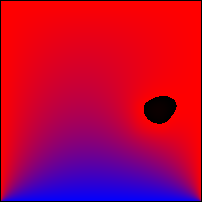
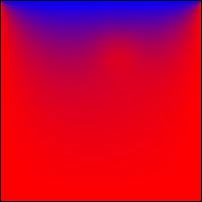
working and optimized sequential code

diff --git a/assignment2/jacobiSequential/main.c b/assignment2/jacobiSequential/main.c
@@ -10,7 +10,8 @@
 #include "../image.c"
 
 int n = 0;
-double h;
+double h,hh;
+
 int iterationsLeft;
 double errLimit;
 
@@ -23,33 +24,46 @@ int iterations = 0;
 
 char mode = 'i';
 
-double updateMat(double* from, double* to)
+void updateMat(double* from, double* to)
 {
-	double err = 0;
 	for(int i = 1 ; i < realSize -1; i++)
 	{
 		for(int j = 1 ; j < realSize -1; j++)
 		{
-			double step = (from[j*realSize + i-1] + from[(j-1)*realSize + i] + from[j*realSize+i+1] + from[(j+1)*realSize + i] +  h*h * f(i,j,n) )*0.25;
-			
-			err += fabs( step - to[i*realSize+j] );
-			//printf("step %f \n ", step);
-			to[j*realSize + i] = step;
-		}				
-	}	
+			double step = (from[i*realSize + j-1] + from[(i-1)*realSize + j] + from[i*realSize+j+1] + from[(i+1)*realSize + j] +  hh * f(i,j,n) )*0.25;
+			to[i*realSize + j] = step;
+		}
+	}
+}
+double updateMatE(double* from, double* to)
+{
+	double err=0;
+	for(int i = 1 ; i < realSize -1; i++)
+	{
+		for(int j = 1 ; j < realSize -1; j++)
+		{
+			double step = (from[i*realSize + j-1] + from[(i-1)*realSize + j] + from[i*realSize+j+1] + from[(i+1)*realSize + j] +  hh * f(i,j,n) )*0.25;
+			err += fabs( to[i*realSize+j] - from[i*realSize+j] );
+			to[i*realSize + j] = step;
+		}
+	}
+	return err;
+}
 
-	iterations++;
-
+double errCheck(double *from, double *to)
+{
+	double err=0;
+	for(int i = 1 ; i < realSize -1; i++)
+	{
+		for(int j = 1 ; j < realSize -1; j++)
+		{
+			err += fabs( to[i*realSize+j] - from[i*realSize+j] );
+		}
+	}
 	return err;
 }
 
 
-void swap(double** a, double** b)
-{
-	double* temp = *a;
-	*a = *b;
-	*b = temp;
-}
 
 int main ( int argc, char *argv[] ) 
 {
@@ -61,6 +75,7 @@ int main ( int argc, char *argv[] )
 
 	realSize = n + 2;
 	h = 2.0/n;
+	hh=h*h;
 	u1 = createMat(n);
 	u2 = createMat(n);
 
@@ -84,19 +99,37 @@ int main ( int argc, char *argv[] )
 	clock_t t = clock();
 	double err;
 	
-	while(1)
+	
+	if(mode=='i')
 	{
-		if(mode == 'i' && iterationsLeft <= 0)
-			break;
-		else if(mode == 'e' && err < errLimit)
-			break;
+		iterations=iterationsLeft;
+		for(int i=0; i<(iterationsLeft/2)-1; i++)
+		{
+			updateMat(u1, u2);
+			updateMat(u2, u1);
+		}
+		updateMat(u1, u2);
+		err = updateMatE(u2, u1);
+	}
+	if(mode=='e')
+	{
+		err = 2*errLimit;
+		iterations=0;
+		int iterBlock=100;
+		while(err>errLimit)
+		{
 
-		err =  updateMat(u1, u2);
+			for(int i=0; i<(iterBlock/2)-1; i++)
+			{
+				updateMat(u1, u2);
+				updateMat(u2, u1);
+			}
+			updateMat(u1, u2);
+			err=updateMatE(u2, u1);
 
-		swap(&u1, &u2);
-
-		iterationsLeft--;		
-	}	
+			iterations += iterBlock;
+		}
+	}
 	wt = omp_get_wtime()-wt;
 	t = clock()-t;
 

diff --git a/assignment2/gaussSequential/main.c b/assignment2/gaussSequential/main.c
@@ -9,26 +9,52 @@
 #include "../image.c"
 
 int n, nn;
-double h;
+double h,hh;
 double *u;
-
-
-
-
 
 
 // Return: error!
 double gaussStep()
 {
-	register double err=0.0;
+	double err=0.0;
 	for(int i=1; i<=n; i++)
-		for(int j=1; j<=n; j++)
+	{
+		for(int j=1; j<=n; j+=2)
 		{
-			register double step = (u[i*nn+j+1]+u[i*nn+j-1]+
-				 u[(i+1)*nn+j]+u[(i-1)*nn+j] + h*h*f(i,j,n))/4.0;
+			double step = (u[i*nn+j+1]+u[i*nn+j-1]+
+				 u[(i+1)*nn+j]+u[(i-1)*nn+j] + hh*f(i,j,n))/4.0;
+			u[i*nn+j]=step;
+		}
+		for(int j=2; j<=n; j+=2)
+		{
+			double step = (u[i*nn+j+1]+u[i*nn+j-1]+
+				 u[(i+1)*nn+j]+u[(i-1)*nn+j] + hh*f(i,j,n))/4.0;
+			u[i*nn+j]=step;
+		}
+	}
+	return err;
+}
+
+double gaussStepE()
+{
+	double err=0.0;
+	for(int i=1; i<=n; i++)
+	{
+		for(int j=1; j<=n; j+=2)
+		{
+			double step = (u[i*nn+j+1]+u[i*nn+j-1]+
+				 u[(i+1)*nn+j]+u[(i-1)*nn+j] + hh*f(i,j,n))/4.0;
 			err += fabs(step-u[i*nn+j]);
 			u[i*nn+j]=step;
 		}
+		for(int j=2; j<=n; j+=2)
+		{
+			double step = (u[i*nn+j+1]+u[i*nn+j-1]+
+				 u[(i+1)*nn+j]+u[(i-1)*nn+j] + hh*f(i,j,n))/4.0;
+			err += fabs(step-u[i*nn+j]);
+			u[i*nn+j]=step;
+		}
+	}
 	return err;
 }
 
@@ -37,14 +63,28 @@ int lastIteration=0;
 
 void gaussIterations(int iterations)
 {
-	for(int i=0; i<iterations; i++)
+	for(int i=0; i<iterations-1; i++)
 		lastErr=gaussStep();
+	lastErr=gaussStepE();
 	lastIteration = iterations;
 }
-void gaussErr(double err)
+void gaussErr(double errLimit)
 {
-	lastIteration=1;
-	while((lastErr = gaussStep())>err) lastIteration++;
+	
+	lastErr = 2*errLimit;
+	lastIteration=0;
+	int iterBlock=100;
+	while(lastErr>errLimit)
+	{
+
+		for(int i=0; i<iterBlock-1; i++)
+		{
+			gaussStep();
+		}
+		lastErr = gaussStepE();
+		lastIteration += iterBlock;
+	}
+	
 }
 int main(int argc, char* argv[])
 {
@@ -54,7 +94,8 @@ int main(int argc, char* argv[])
 	printf("N=%i\n",n);
 	nn = n+2;
 	h = 2.0/n;
-
+	hh = h*h;
+	
 	char mode='i'; // e for Err or i for iteration
 	int iterations;
 	double errLimit;

diff --git a/assignment2/possion.h b/assignment2/possion.h
@@ -4,8 +4,6 @@
 const double wallVal = 20.0;
 const double radiatorVal = 200.0;
 
-//these holds the boundary conditions for the radiator
-int rxMin, rxMax, ryMin, ryMax;
 
 void print(double *u, int nn)
 {
@@ -17,22 +15,18 @@ void print(double *u, int nn)
 	}
 }
 
-
-int cx(double a, int n)
+int c(double a, int n)
 {
-	return  (0.5 + 0.5 * a ) * (double)n;
+	return (int)( 0.5 * (double)n + 0.5 * a * (double) n );
 }
 
-int cy(double a, int n)
-{
-	return (0.5 + 0.5 * a ) * (double)n;
-}
+int fc_1_3, fc_m2_3, fc_0, fc_m1_3;
 
 double f(int i, int j, int n)
 {
 	int realSize = n + 2;	
 
-	if(rxMin < i && i <= rxMax && ryMin < j && j <= ryMax )
+	if(fc_0 < i && i <= fc_1_3  && fc_m2_3 < j && j <= fc_m1_3 )
 		return radiatorVal;
 	else
 		return 0;
@@ -54,24 +48,22 @@ double* createMat(int n)
 	for(i = 0 ; i < realSize -1 ; i++)
 	{
 		result[0 + i] 	      			= wallVal;
-		result[realSize * i + (realSize-1)] 	= 0.0;
+		result[realSize * i+(realSize-1)] 	= wallVal;
 		result[(realSize-1)*realSize + i] 	= wallVal;
-		result[realSize * i] 			= wallVal;
+		result[realSize * i] 			= 0;
 
 	}
-
+	
+	fc_0=c(0,n);
+	fc_1_3 = c(1.0/3.0,n);
+	fc_m2_3=c(-2.0/3.0,n);
+	fc_m1_3= c(-1.0/3.0,n);
+	
+/*
 	for(int i=1; i<=n; i++)
 		for(int j=1; j<=n; j++)
 			result[i*realSize+j]=f(i,j,n);
-
-	//because the image lib outputs pictures in column first order we need to change the coordinates of the radiator
-	rxMin = cx(1.0/3.0,n);
-	rxMax = cx(2.0/3.0,n);
-	ryMin = cy(0,n);
-	ryMax = cy(1.0/3.0,n);
-
-	//printf(" [%d %d] [%d %d]", rxMin, rxMax, ryMin, ryMax);
-
+*/
 	return result;
 }
 
